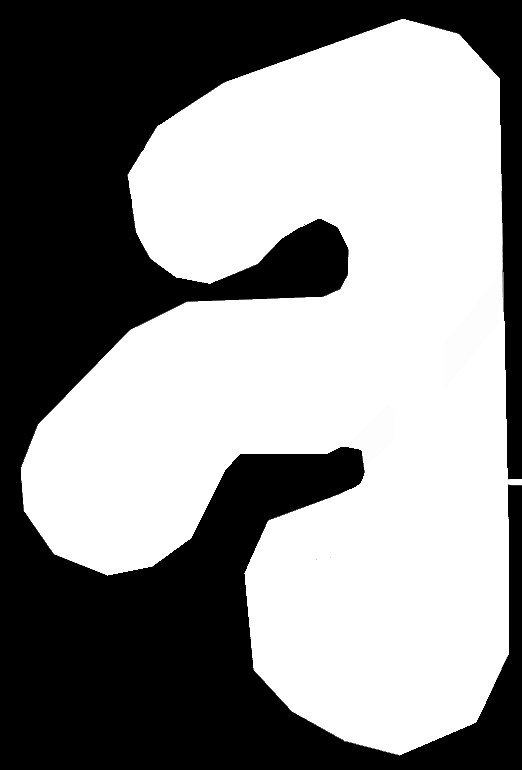
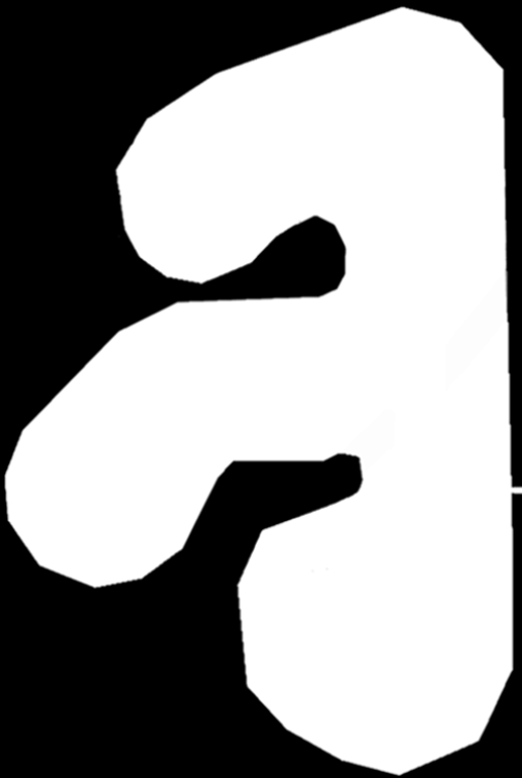
setup collision

diff --git a/GoKardsRacing/GoKardsRacing.Shared/MainGame.cs b/GoKardsRacing/GoKardsRacing.Shared/MainGame.cs
@@ -59,8 +59,12 @@ namespace GoKardsRacing
             graphics.SupportedOrientations = DisplayOrientation.LandscapeLeft | DisplayOrientation.LandscapeRight;
 
             physic = new Physic(this, new Vector2(0, 0));
-            body = BodyFactory.CreateRectangle(physic.World, 10, 10, 0.1f);
-            body.BodyType = BodyType.Dynamic;           
+            body = BodyFactory.CreateCircle(physic.World, 5, 1);
+            body.BodyType = BodyType.Dynamic;
+            body.LinearDamping = 0.4f;
+            body.Friction = 0;
+            body.Restitution = 0.8f;
+          
 
             Components.Add(physic);
 
@@ -86,11 +90,11 @@ namespace GoKardsRacing
             bodyCollisionBorde.BodyType = BodyType.Static;
             bodyCollisionCenter = BodyFactory.CreateCompoundPolygon(physic.World, getVerticesList(collisionCenter), 1);
             bodyCollisionCenter.BodyType = BodyType.Static;
-            bodyCollisionCenter.Position = new Vector2(90, 80);
+            bodyCollisionCenter.Position = new Vector2(72, 74);
 
-             body.Position = new Vector2(0,0);  
+             body.Position = new Vector2(480,200);  
 
-            //collisionCenter = collisionBorder = null;
+            collisionCenter = collisionBorder = null;
 
             cube = Content.Load<Model>("Model/tor");
 
@@ -106,12 +110,14 @@ namespace GoKardsRacing
         protected override void Update(GameTime gameTime)
         {
             MouseState mouse = Mouse.GetState();
-            if (mouse.LeftButton == ButtonState.Pressed)
-                body.Position = mouse.Position.ToVector2();
+           // if (mouse.LeftButton == ButtonState.Pressed)
+            body.ApplyLinearImpulse(new Vector2(Camera.Target.X, Camera.Target.Z)*10);
 
-
+  
             Camera.Update(gameTime);
-            Camera.Position = new Vector3(body.Position.X/10, 5f, body.Position.Y/10);           
+            Camera.Position = new Vector3(body.Position.X/10, 2.6f, body.Position.Y/10);
+
+  
 
             base.Update(gameTime);
         }
@@ -121,19 +127,19 @@ namespace GoKardsRacing
         {          
             GraphicsDevice.Clear(Color.CornflowerBlue);
 
-            Camera.DrawModel(cube, new Vector3(20,0,36));
+            Camera.DrawModel(cube, new Vector3(27, 0, 34));
 
+            //spriteBatch.Begin();
+            //spriteBatch.Draw(collisionBorder, new Rectangle((int)bodyCollisionBorde.Position.X, (int)bodyCollisionBorde.Position.Y, collisionBorder.Width, collisionBorder.Height)
+            //     , null, Color.Red, bodyCollisionBorde.Rotation, Vector2.Zero, SpriteEffects.None, 0f);
 
-            spriteBatch.Begin();
-            spriteBatch.Draw(collisionBorder , new Rectangle((int)bodyCollisionBorde.Position.X, (int)bodyCollisionBorde.Position.Y, collisionBorder.Width, collisionBorder.Height)
-                , null, Color.Red, bodyCollisionBorde.Rotation, Vector2.Zero, SpriteEffects.None, 0f);
+            //spriteBatch.Draw(collisionCenter, new Rectangle((int)bodyCollisionCenter.Position.X, (int)bodyCollisionCenter.Position.Y, collisionCenter.Width, collisionCenter.Height)
+            //     , null, Color.Red, bodyCollisionCenter.Rotation, Vector2.Zero, SpriteEffects.None, 0f);
 
-            spriteBatch.Draw(collisionCenter, new Rectangle((int)bodyCollisionCenter.Position.X, (int)bodyCollisionCenter.Position.Y, collisionCenter.Width, collisionCenter.Height)
-                , null, Color.Red, bodyCollisionCenter.Rotation, Vector2.Zero, SpriteEffects.None, 0f);            
+            //spriteBatch.Draw(text, new Rectangle((int)body.Position.X, (int)body.Position.Y, 10, 10)
+            //    , null, Color.White, body.Rotation, new Vector2(.5f), SpriteEffects.None, 0f);
 
-            spriteBatch.Draw(text, new Rectangle((int)body.Position.X, (int)body.Position.Y , 10, 10)
-                , null, Color.White, body.Rotation, new Vector2(.5f), SpriteEffects.None, 0f);
-            spriteBatch.End();            
+            //spriteBatch.End();            
 
             base.Draw(gameTime);
         }
